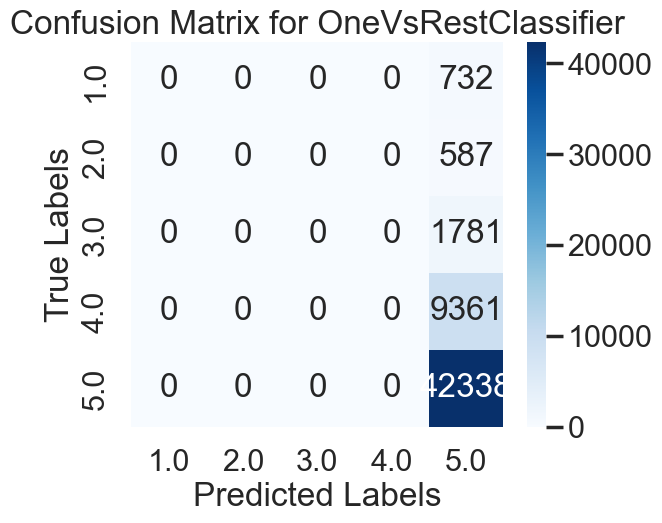
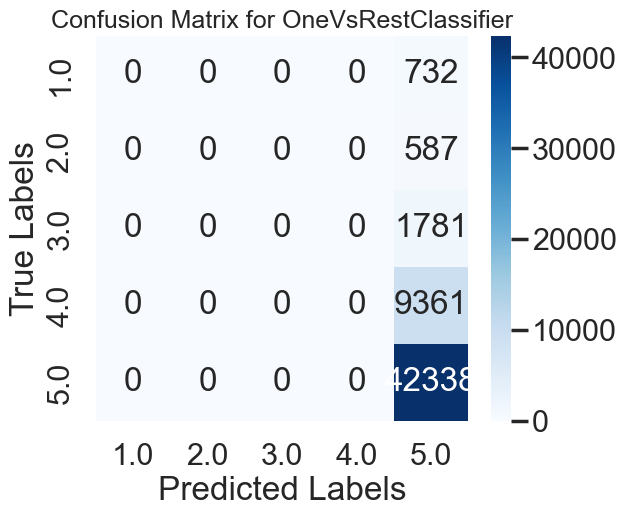
figure formatting

diff --git a/README.md b/README.md
@@ -126,16 +126,15 @@ The effects of these cleaning steps were to create several new numerical columns
 
 We can look into the ratings column to see how it is distributed: 
 
-<div style="display: flex; justify-content: center; align-items: center; height: 100vh;">
-    <iframe src="assets/ratings_histogram.html" width=1000 height=800 frameBorder=0></iframe>
-</div>
+<iframe src="assets/ratings_histogram.html" width=600 height=400 frameBorder=0></iframe>
+
 It seems that the vast majority of ratings are 5 star ratings. This is not super surprising as many online recipes end up being good, and many people who review recipes do not review them with an intense amount of scrutiny. This may make predicting a "good" recipe more difficult - we may have to come up with different definitons of what it means to be a "good" recipe. There still are a small amount of reviews that are below 5 stars, though, meaning that it might be possible to make predictions solely off of these ratings.
 
 #### Distribution of nutritional information
 
 Many of the new columns that were derived from the original `'nutrition'` column share the same units of percent daily value (PDV). Given this, it makes sense to visualize the distributions of these columns in a side by side box plot. 
 
-<iframe src="assets/nutrition_boxplots.html" width=800 height=600 frameBorder=0></iframe>
+<iframe src="assets/nutrition_boxplots.html" width=600 height=400 frameBorder=0></iframe>
 
 There is an immense amount of variation in nutrient PDV values. In order to make a more interpretable boxplot, I plotted the y-axis of PDV values on the log scale. This spread will need to be accounted for in subsequent model building.
 
@@ -143,7 +142,7 @@ There is an immense amount of variation in nutrient PDV values. In order to make
 
 We can also conduct a multivariate analysis by looking at the relationship between two variables and coloring by a third. I will look at the relationship between calorie number and average rating, coloring by recipe duration. 
 
-<iframe src="assets/recipe_avg_cal_num_scatterplot.html" width=800 height=600 frameBorder=0></iframe>
+<iframe src="assets/recipe_avg_cal_num_scatterplot.html" width=600 height=400 frameBorder=0></iframe>
 
 There doesnt seem to be an incredibly strong relationship between any of these three variables. There might be a slightly positive relationship between calorie number and recipe rating, so that could be used as a predictor in an initial model. 
 
@@ -302,9 +301,9 @@ The first model I will use for this prediction problem is a **one versus rest lo
 
 Despite having high accuracy, the model displayed poor average recall and precision. Since these are averages across the five models, this might indicate that the one versus rest classifier is severely over-fitting one sub model and underfitting the rest. We can see if this is the case by plotting a confusion matrix:
 
-<body>
+<div style="text-align: center;">
     <img src="assets\confusion_matrix_m1.png" alt="Confusion Matrix" width="600">
-</body>
+</div>
 
 Per the confusion matrix, the one versus rest classifier is classifying everything as rated a 5! This is not entirely surprising given the extreme bias in 5 ratings as seen before. This model is clearly uninformative, and might not be able to be made better due to the underlying distribution of what its trying to predict; we might need to reframe the prediction question.
 
@@ -320,9 +319,9 @@ This is a question best answered by a binary logistic regression model. We can c
 
 We can see the confusion matrix for this model as well:
 
-<body>
+<div style="text-align: center;">
     <img src="assets\confusion_matrix_m2.png" alt="Confusion Matrix 2" width="600">
-</body>
+</div>
 
 This model does not perform very well and certainly overclassifies recipes as being in the bottom 50%, but it does seem to make more varied predictions so maybe it is worth building upon as a final model.
 
